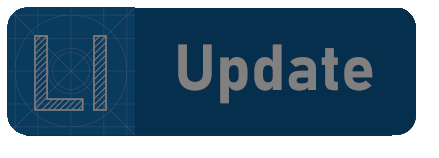
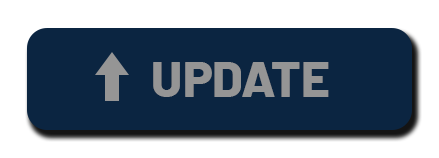
Improved Update Buttons

diff --git a/LevelImposter/Shop/Builders/UpdateButtonBuilder.cs b/LevelImposter/Shop/Builders/UpdateButtonBuilder.cs
@@ -21,10 +21,10 @@ public static class UpdateButtonBuilder
     {
         // Object
         var buttonPrefab = GameObject.Find(BUTTON_PATH);
-        _btnObj = Object.Instantiate(buttonPrefab);
-        _btnObj.transform.SetParent(VersionPatch.VersionObject?.transform);
+        _btnObj = Object.Instantiate(buttonPrefab, VersionPatch.VersionObject?.transform);
         _btnObj.name = "button_LevelImposterUpdater";
-        _btnObj.transform.localPosition = new Vector3(0.5f, 0.7f, 0);
+        _btnObj.transform.localScale = new Vector3(1.5f, 1.5f, 1.0f);
+        _btnObj.transform.localPosition = new Vector3(-2.5f, 0.05f, 0);
 
         // Active/Inactive
         var active = _btnObj.transform.Find("Highlight").gameObject;

diff --git a/LevelImposter/Shop/Patches/VersionPatch.cs b/LevelImposter/Shop/Patches/VersionPatch.cs
@@ -31,7 +31,7 @@ public static class VersionPatch
 
         var logoPosition = VersionObject.AddComponent<AspectPosition>();
         logoPosition.Alignment = AspectPosition.EdgeAlignments.Right;
-        logoPosition.DistanceFromEdge = new Vector3(1.8f, -2.3f, 0);
+        logoPosition.DistanceFromEdge = new Vector3(1.8f, -2.3f, 4.5f);
         logoPosition.AdjustPosition();
 
         var logoRenderer = VersionObject.AddComponent<SpriteRenderer>();
